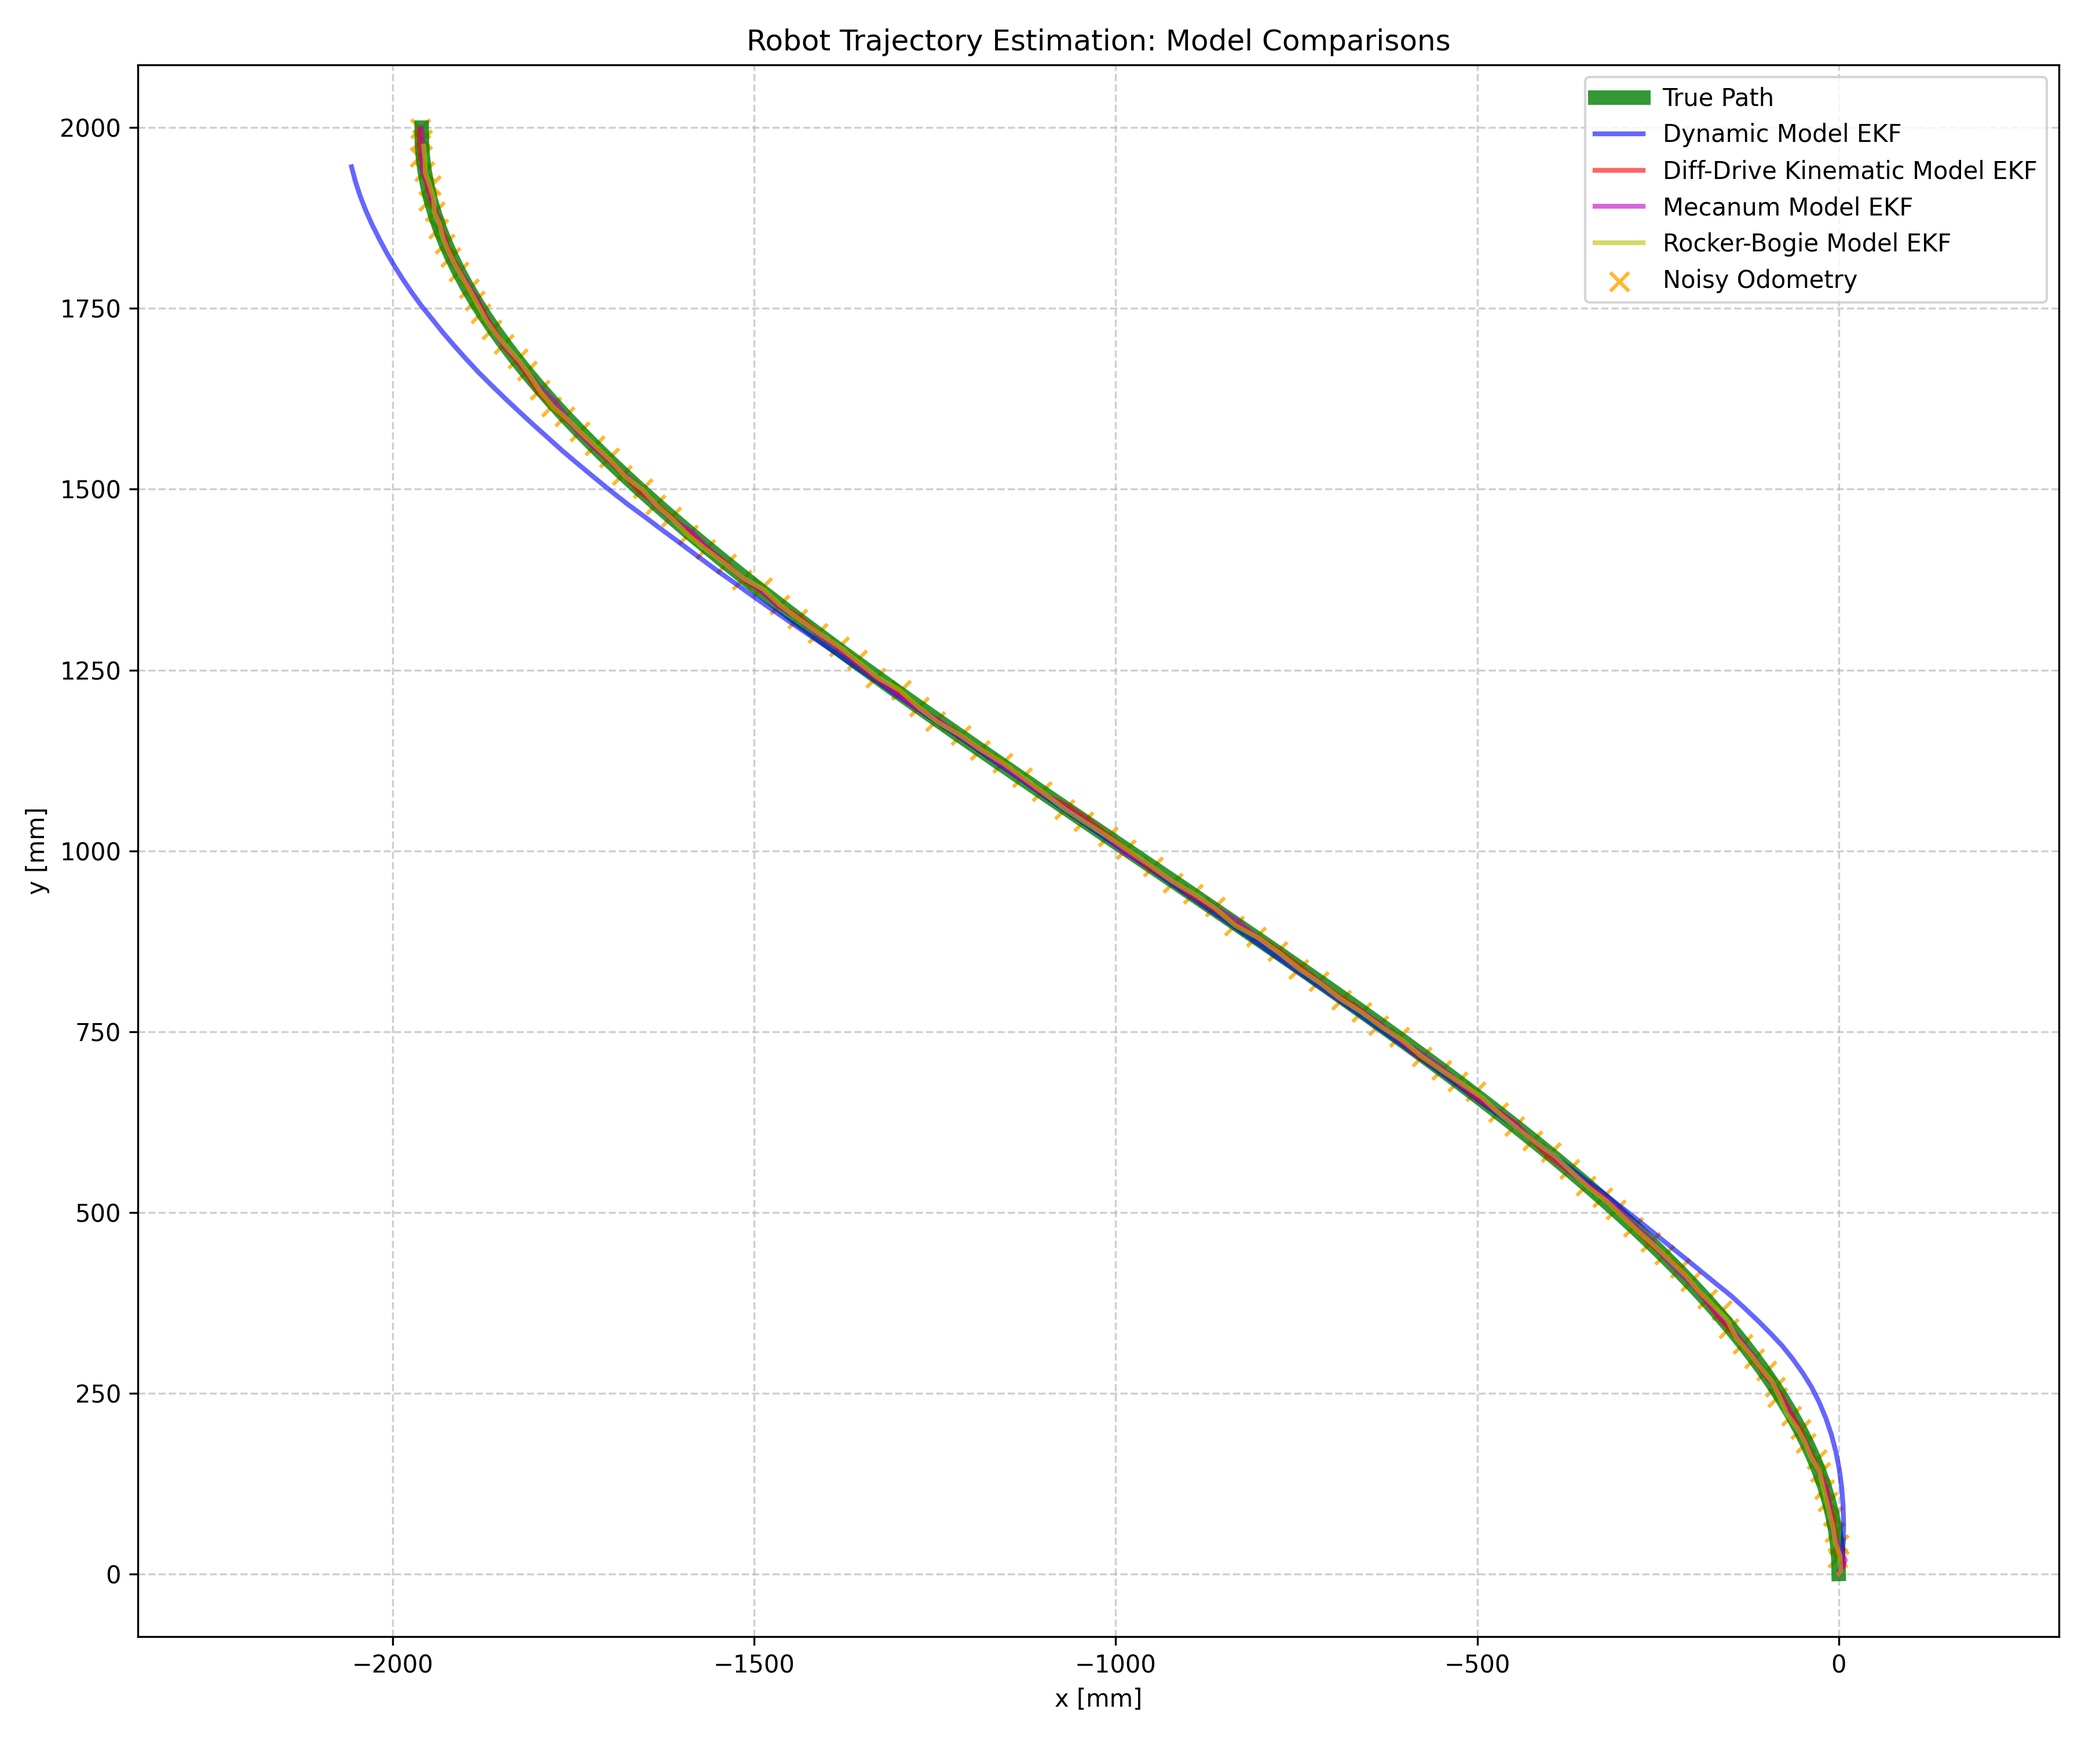
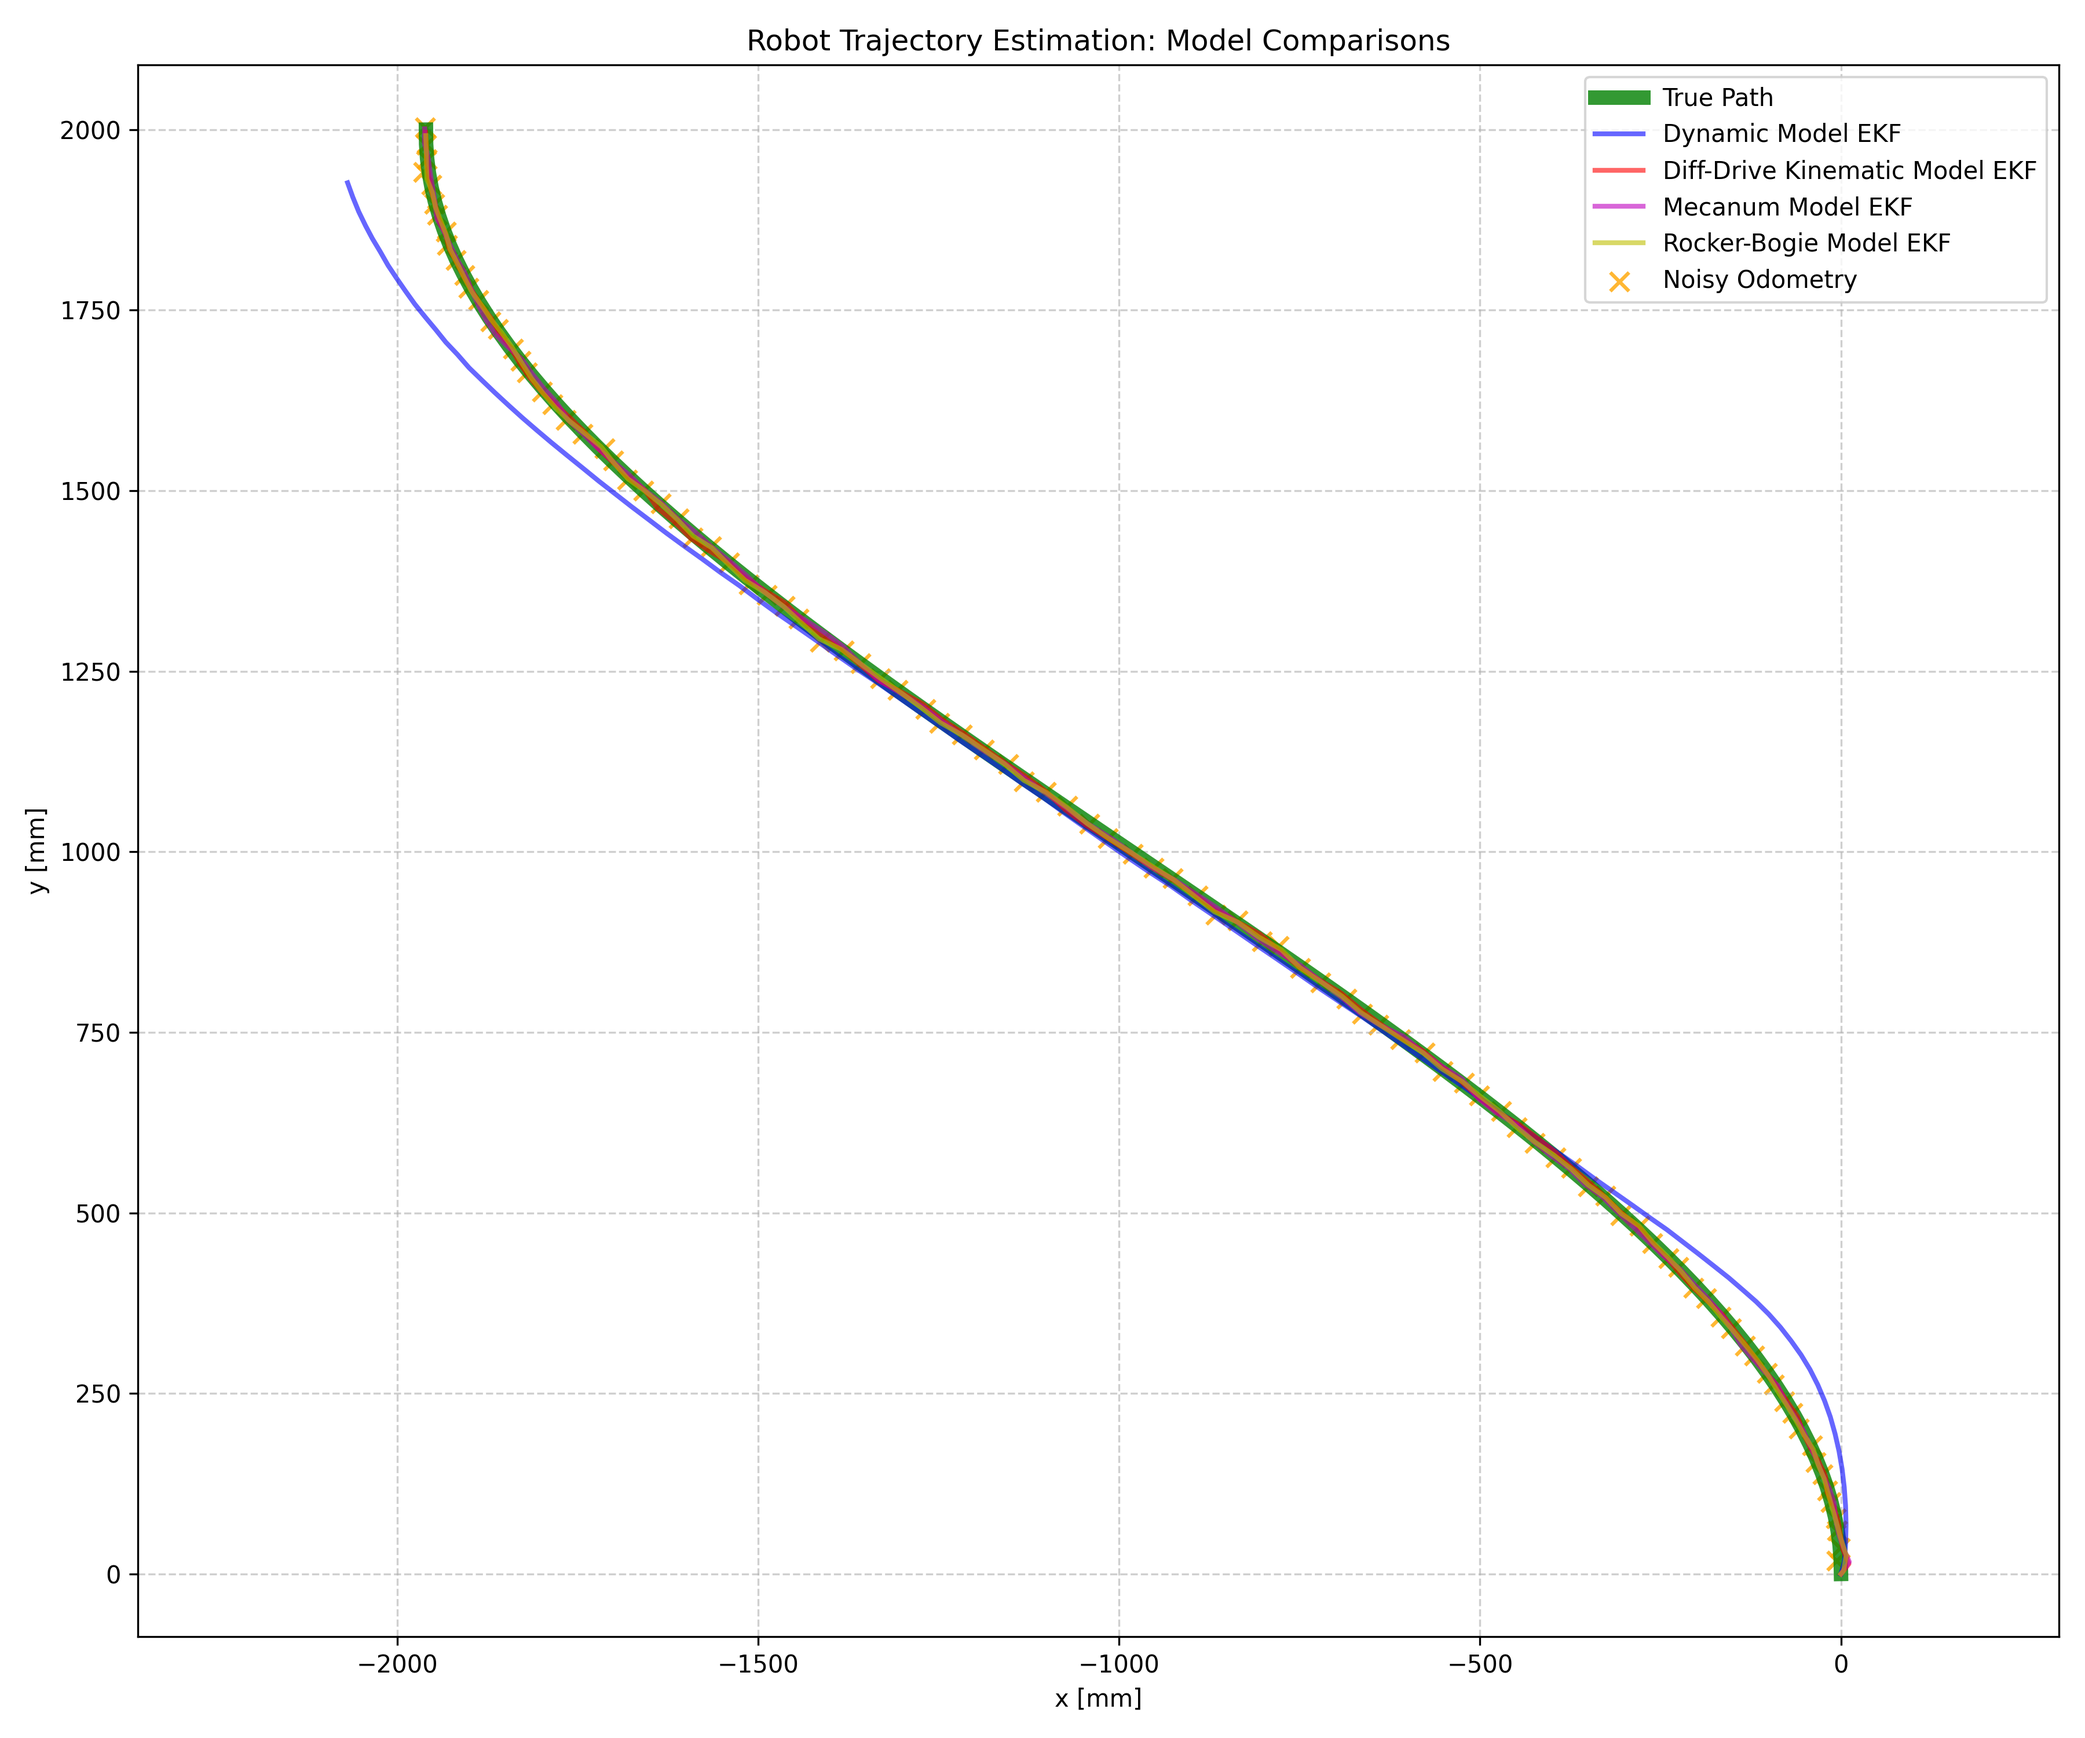
New photos and changing covariances

diff --git a/prototyping/kalman_filter.py b/prototyping/kalman_filter.py
@@ -88,9 +88,9 @@ class KalmanFilter:
         self.Q[5, 5] = 0.005    # Angular velocity noise [rad^2/s^2]
         # [x, y, theta] Odometry measurement noise covariance
         self.R_odom = np.eye(3)
-        self.R_odom[0, 0] = 5.0  # Position uncertainty in x [mm^2]
-        self.R_odom[1, 1] = 5.0  # Position uncertainty in y [mm^2]
-        self.R_odom[2, 2] = 0.1  # Orientation uncertainty [rad^2]
+        self.R_odom[0, 0] = 10.0  # Position uncertainty in x [mm^2]
+        self.R_odom[1, 1] = 10.0  # Position uncertainty in y [mm^2]
+        self.R_odom[2, 2] = 0.2  # Orientation uncertainty [rad^2]
         # [omega] IMU measurement noise covariance
         self.R_imu = np.array([[0.0075]])  # Yaw rate noise [rad^2/s^2]
         self.last_timestamp = initial_timestamp  # [seconds]

diff --git a/README.md b/README.md
@@ -17,8 +17,8 @@ This project is currently in progress and I'm currently focusing on the drive-ba
 ---
 
 <div style="display: flex; justify-content: center; align-items: flex-start; gap: 12px;">
-  <img src="cad_images/Isometric.png" alt="Isometric CAD View" style="width: 49%; border-radius: 12px;">
-  <img src="cad_images/TopDown.png" alt="Top Down CAD View" style="width: 49%; border-radius: 12px;">
+  <img src="cad_images/IsometricRover.png" alt="Isometric CAD View" style="width: 49%; border-radius: 12px;">
+  <img src="cad_images/TopDownRover.png" alt="Top Down CAD View" style="width: 49%; border-radius: 12px;">
 </div>
 
 <div style="display: flex; justify-content: center; align-items: center; width: 80%;">
